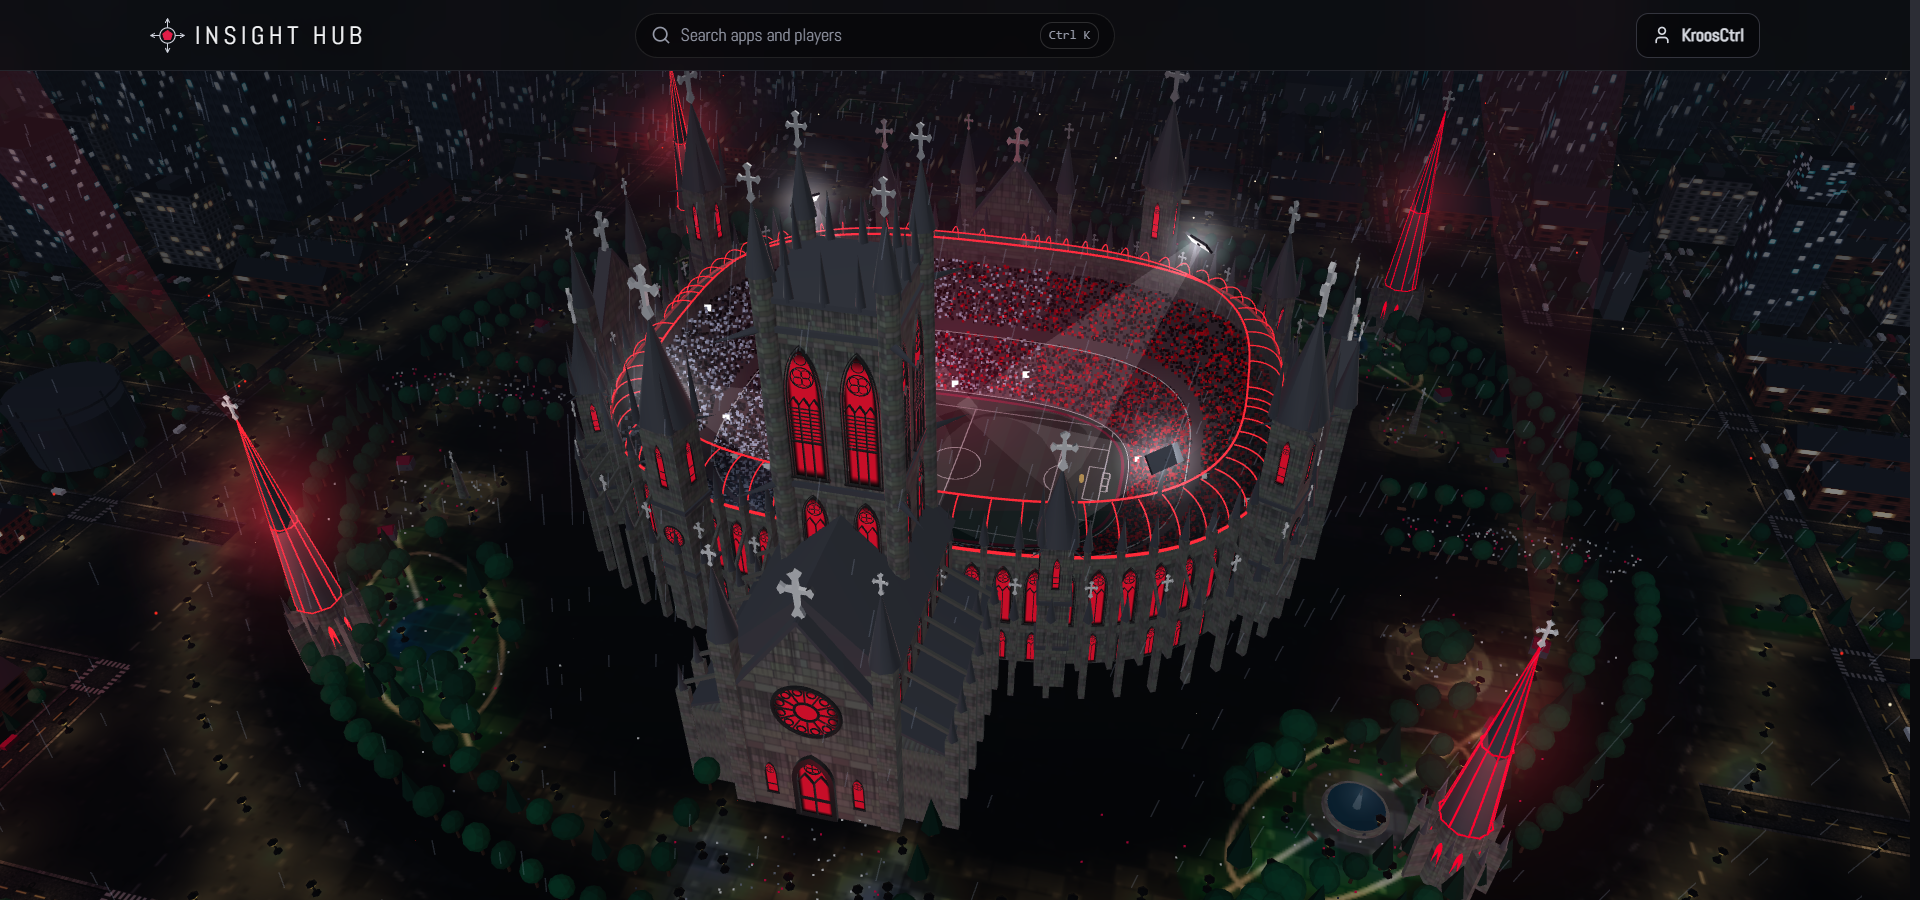
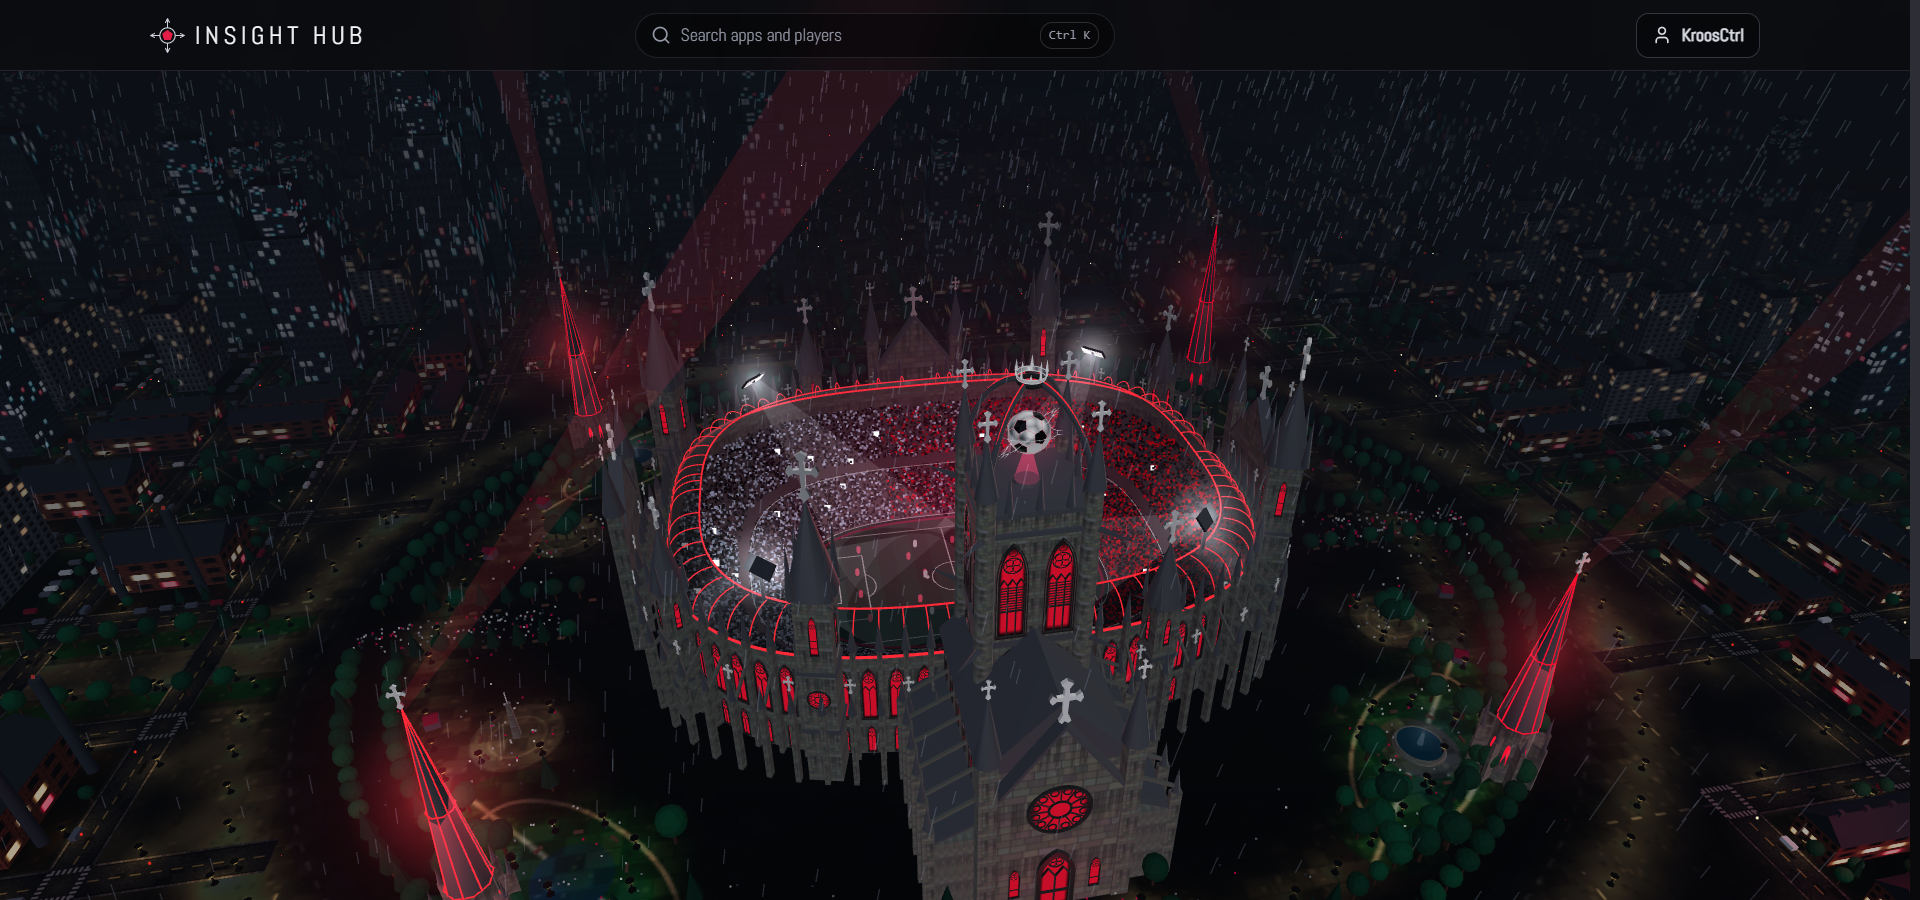
Stadium: crowned ball in a crown steeple on the great tower
Four flying ribs spring from the tower's corner turrets and meet in a
collar above the roof. The chrome football from the landing page hangs
in the cage they make, turning inside two thorn rings on a shaft of red
light, with its crown set on the apex; it spins up on a home goal.

The camera is aimed higher with a slightly wider lens, and the tower is
a little shorter, so the steeple stays in frame all the way round.

diff --git a/src/three/stadium.ts b/src/three/stadium.ts
@@ -1,7 +1,7 @@
 import * as THREE from "three";
 import { mergeGeometries } from "three/examples/jsm/utils/BufferGeometryUtils.js";
 import { BLOOD, CHROME, type Stage } from "./stage";
-import { createPitchLines } from "./models";
+import { createCrown, createFootball, createPitchLines, createThornRing } from "./models";
 
 /**
  * A gothic cathedral stadium on a rainy night, seen from a circling blimp:
@@ -605,14 +605,79 @@ function makePortal(kit: Kit) {
 
 /** Spire height as a share of the tower beneath it. */
 const SPIRE_RATIO = 0.42;
+/**
+ * A crown steeple on the great tower: four flying ribs spring from the corner
+ * turrets and meet in a collar high above the roof. The chrome football from
+ * the landing page hangs in the cage they make, turning inside two thorn
+ * rings on a shaft of red light, and its crown is set on the apex.
+ */
+function buildCrownSteeple(tower: THREE.Group, kit: Kit, width: number) {
+  const roof = GREAT_TOWER_HEIGHT;
+  const half = width / 2;
+  const apex = roof + 30;
+  const heart = roof + 15;
+
+  for (const [dx, dz] of [[1, 1], [1, -1], [-1, 1], [-1, -1]]) {
+    const curve = new THREE.QuadraticBezierCurve3(
+      new THREE.Vector3(dx * half, roof + 5, dz * half),
+      new THREE.Vector3(dx * half * 0.8, roof + 26, dz * half * 0.8),
+      new THREE.Vector3(dx * 2.4, apex, dz * 2.4),
+    );
+    const rib = new THREE.Mesh(new THREE.TubeGeometry(curve, 20, 0.85, 4), kit.slate);
+    // A line of neon rides along the top of each rib
+    const tube = new THREE.Mesh(new THREE.TubeGeometry(curve, 20, 0.2, 5), kit.neon);
+    tube.position.y = 0.95;
+    tower.add(rib, tube);
+  }
+  const collar = new THREE.Mesh(new THREE.TorusGeometry(3.1, 0.7, 6, 24), kit.iron);
+  collar.rotation.x = Math.PI / 2;
+  collar.position.y = apex;
+  const plinth = new THREE.Mesh(new THREE.CylinderGeometry(3.6, 4.6, 1.4, 8), kit.slate);
+  plinth.position.y = roof + 0.7;
+
+  const crown = createCrown(4);
+  crown.position.y = apex + 1.7;
+
+  const ball = createFootball(5.8);
+  ball.position.y = heart;
+  const rings = [createThornRing(7.4, 26), createThornRing(8.4, 30)];
+  rings[0].rotation.x = Math.PI / 2.4;
+  rings[1].rotation.set(Math.PI / 3, Math.PI / 5, 0);
+  rings.forEach((ring) => ring.position.y = heart);
+
+  // The ball floats on a shaft of red light rising from the plinth
+  const shaft = new THREE.Mesh(
+    new THREE.CylinderGeometry(1, 3.4, heart - roof - 6, 16, 1, true),
+    new THREE.MeshBasicMaterial({ color: BLOOD, transparent: true, opacity: 0.2, blending: THREE.AdditiveBlending, depthWrite: false, side: THREE.DoubleSide, fog: false }),
+  );
+  shaft.position.y = roof + 1.4 + (heart - roof - 6) / 2;
+  const aura = glowSprite(kit, BLOOD, 44, 0.4);
+  aura.position.y = heart;
+  tower.add(collar, plinth, crown, ball, ...rings, shaft, aura);
+
+  let last = 0;
+  let spin = 0;
+  /** `joy` (0-1) is the home crowd's excitement: the ball spins up and its aura swells on a goal. */
+  return (time: number, joy: number) => {
+    spin += Math.max(0, time - last) * (0.4 + joy * 2.6);
+    last = time;
+    ball.rotation.set(Math.sin(time * 0.3) * 0.25, spin, 0);
+    ball.position.y = heart + Math.sin(time * 0.9) * 0.5;
+    rings[0].rotation.z = spin * 0.6;
+    rings[1].rotation.z = -spin * 0.45;
+    crown.rotation.y = -time * 0.3;
+    (aura.material as THREE.SpriteMaterial).opacity = 0.32 + joy * 0.45;
+  };
+}
+
 const NAVE_LENGTH = 58;
-const GREAT_TOWER_HEIGHT = 132;
+const GREAT_TOWER_HEIGHT = 112;
 
 /**
  * The cathedral proper, grown out of the north stand: a nave with aisles and a
  * slate roof, a west front, and one great square tower crowned with pinnacles.
  */
-function buildCathedral(group: THREE.Group, kit: Kit): THREE.Vector3[] {
+function buildCathedral(group: THREE.Group, kit: Kit) {
   const theta = Math.PI / 2;
   const n = outwardNormal(theta, WALL_OFFSET);
   const cathedral = new THREE.Group();
@@ -692,10 +757,11 @@ function buildCathedral(group: THREE.Group, kit: Kit): THREE.Vector3[] {
     // A pair of three-light belfry windows with louvres, a pair of two-light windows below,
     // and small pinnacles along the parapet
     for (const x of [-6.6, 6.6]) {
-      const belfry = traceriedWindow(kit, 7.6, 36, { lights: 3, transoms: 1, louvres: 9, hood: true });
-      belfry.position.set(x, GREAT_TOWER_HEIGHT * 0.64, width / 2 + 0.1);
-      const lower = traceriedWindow(kit, 5.6, 21, { lights: 2, transoms: 1, hood: true });
-      lower.position.set(x, GREAT_TOWER_HEIGHT * 0.435, width / 2 + 0.1);
+      // Heights are fractions of the tower so the windows always sit between its string courses
+      const belfry = traceriedWindow(kit, 7.2, GREAT_TOWER_HEIGHT * 0.27, { lights: 3, transoms: 1, louvres: 9, hood: true });
+      belfry.position.set(x, GREAT_TOWER_HEIGHT * 0.645, width / 2 + 0.1);
+      const lower = traceriedWindow(kit, 5.2, GREAT_TOWER_HEIGHT * 0.155, { lights: 2, transoms: 1, hood: true });
+      lower.position.set(x, GREAT_TOWER_HEIGHT * 0.44, width / 2 + 0.1);
       side.add(belfry, lower);
     }
     for (const x of [-8, 0, 8]) {
@@ -707,13 +773,15 @@ function buildCathedral(group: THREE.Group, kit: Kit): THREE.Vector3[] {
   }
   addGargoyles(tower, width, GREAT_TOWER_HEIGHT * 0.62, kit.slate);
   addGargoyles(tower, width, GREAT_TOWER_HEIGHT * 0.945, kit.slate);
+  const turnRelic = buildCrownSteeple(tower, kit, width);
   cathedral.add(tower);
   group.add(cathedral);
 
   // World positions of the four corner spirelets on the great tower
   cathedral.updateMatrixWorld(true);
-  return [[1, 1], [1, -1], [-1, 1], [-1, -1]].map(([dx, dz]) =>
+  const tips = [[1, 1], [1, -1], [-1, 1], [-1, -1]].map(([dx, dz]) =>
     tower.localToWorld(new THREE.Vector3((dx * width) / 2, GREAT_TOWER_HEIGHT + 24, (dz * width) / 2)));
+  return { tips, turnRelic };
 }
 
 function buildPortals(group: THREE.Group, kit: Kit) {
@@ -2156,7 +2224,8 @@ export function setupStadium({ scene, camera, renderer, pointer }: Stage) {
   buildArcade(stadium, kit);
   const spireTips = buildTowers(stadium, kit);
   buildPortals(stadium, kit);
-  spireTips.push(...buildCathedral(stadium, kit));
+  const cathedral = buildCathedral(stadium, kit);
+  spireTips.push(...cathedral.tips);
   const beams = buildFloodlights(stadium, kit);
   const crowd = buildCrowd(stadium, small ? 9000 : 20000);
   const fire = buildFire(stadium, spireTips, small ? 160 : 420);
@@ -2226,6 +2295,7 @@ export function setupStadium({ scene, camera, renderer, pointer }: Stage) {
     for (const ember of embers) ember.intensity = EMBER * (0.8 + homeJoy * 1.2);
     flare.intensity = 2600 * burn * (0.75 + 0.25 * Math.sin(time * 19));
     pulseCity(time, homeJoy, pointScale);
+    cathedral.turnRelic(time, scorer === 1 && sinceGoal >= 0 ? excite : 0);
     mist.rotation.y = time * 0.006;
 
     // The blimp: one slow lap every ~100 seconds
@@ -2234,6 +2304,7 @@ export function setupStadium({ scene, camera, renderer, pointer }: Stage) {
     const lift = Math.max(0, Math.sin(angle)) ** 2;
     const radius = 315 + Math.sin(time * 0.05) * 16 + lift * 60;
     camera.position.set(Math.cos(angle) * radius + pointer.x * 8, 192 + Math.sin(time * 0.08) * 12 + pointer.y * 5 + lift * 80, Math.sin(angle) * radius * 0.86);
-    camera.lookAt(0, 6, 0);
+    // Aimed well above the pitch so the great tower and the relic on it stay in frame all the way round
+    camera.lookAt(0, 60, 0);
   };
 }

diff --git a/src/three/scenes.tsx b/src/three/scenes.tsx
@@ -72,7 +72,7 @@ export function HeroScene({ className }: { className?: string }) {
 
 /** Fixed full-page backdrop: the cathedral stadium, filmed from a circling blimp. */
 export function Backdrop() {
-  const ref = useStage((el) => mountStage(el, { fov: 42, far: 1400, reflections: true, setup: setupStadium }));
+  const ref = useStage((el) => mountStage(el, { fov: 48, far: 1400, reflections: true, setup: setupStadium }));
   return <div ref={ref} className="pointer-events-none fixed inset-0 z-0" aria-hidden />;
 }
 
